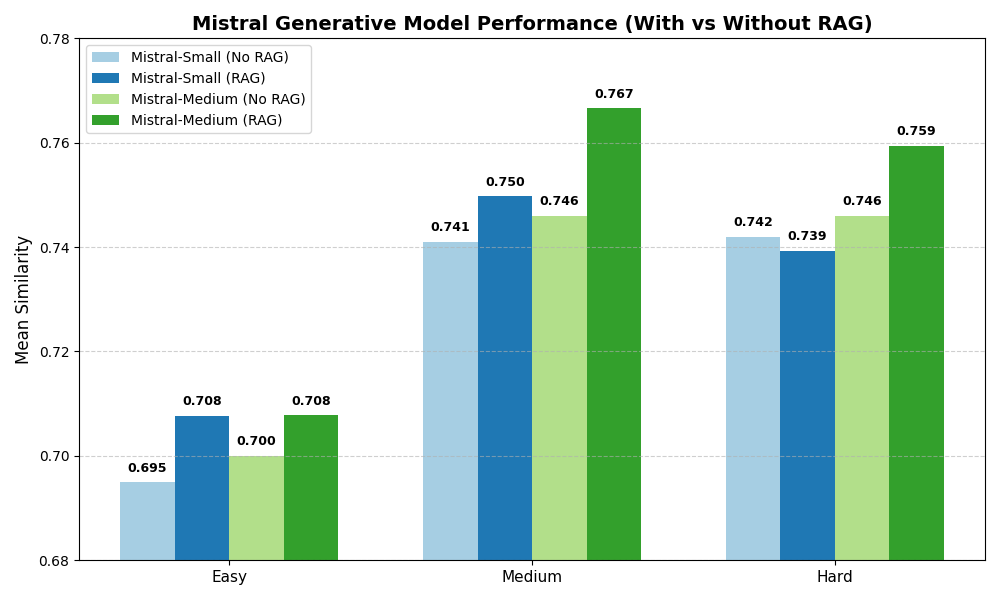
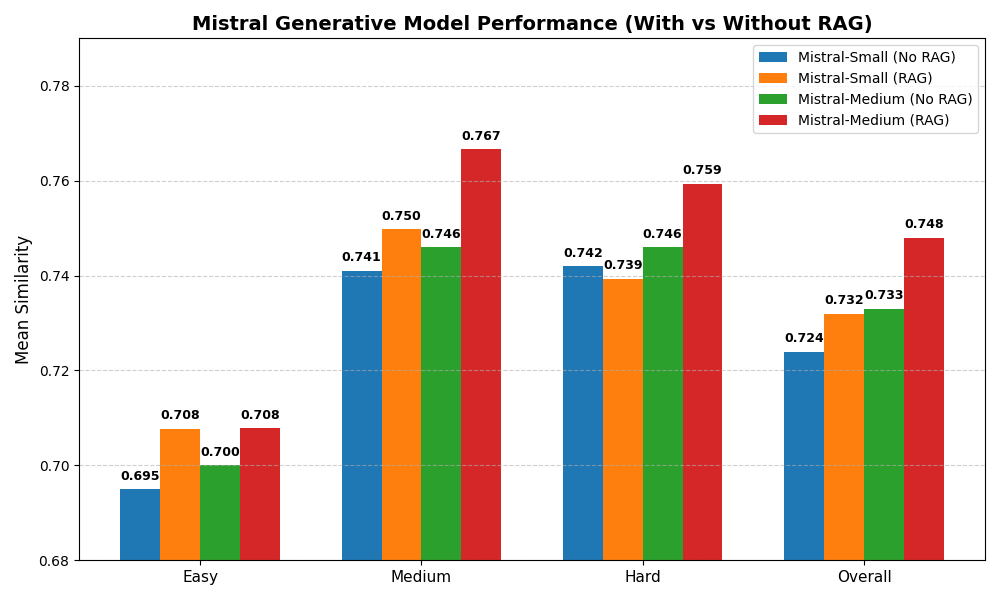
progress

diff --git a/analysis/task3.py b/analysis/task3.py
@@ -208,68 +208,75 @@ if __name__ == "__main__":
 
 '''
 # small
-With RAG:
-Overall mean similarity: 0.7059 <- do not plot this number
-  easy: 0.7077
-  medium: 0.7498
-  hard: 0.7393
-Saved detailed results to textwave/results/generative_mistral-small-latest_detailed.csv
-No RAG:
-  Easy: 0.695
-  Hard: 0.742
-  Medium: 0.741
+With RAG
+	•	Easy: 0.7077
+	•	Medium: 0.7498
+	•	Hard: 0.7393
+	•	Overall: 0.732
+
+Without RAG
+	•	Easy: 0.695
+	•	Medium: 0.741
+	•	Hard: 0.742
+	•	Overall: 0.724
 
 # medium
-With RAG:
-Overall mean similarity: 0.7164 <- do not plot this number
-  easy: 0.7078
-  medium: 0.7666
-  hard: 0.7594
-Saved detailed results to textwave/results/generative_mistral-medium-latest_detailed.csv
-No RAG:
-  Easy: 0.700
-  Hard: 0.746
-  Medium: 0.746
+With RAG
+	•	Easy: 0.7078
+	•	Medium: 0.7666
+	•	Hard: 0.7594
+	•	Overall: 0.748
+Without RAG
+	•	Easy: 0.700
+	•	Medium: 0.746
+	•	Hard: 0.746
+	•	Overall: 0.733
 '''
 
 # %%
 import matplotlib.pyplot as plt
 import numpy as np
 
-# Data
-categories = ["Easy", "Medium", "Hard"]
+# Updated categories (added Overall)
+categories = ["Easy", "Medium", "Hard", "Overall"]
 
 # With RAG
-mistral_small_rag = [0.7077, 0.7498, 0.7393]
-mistral_medium_rag = [0.7078, 0.7666, 0.7594]
+mistral_small_rag = [0.7077, 0.7498, 0.7393, 0.732]
+mistral_medium_rag = [0.7078, 0.7666, 0.7594, 0.748]
 
 # No RAG
-mistral_small_no_rag = [0.695, 0.741, 0.742]
-mistral_medium_no_rag = [0.700, 0.746, 0.746]
+mistral_small_no_rag = [0.695, 0.741, 0.742, 0.724]
+mistral_medium_no_rag = [0.700, 0.746, 0.746, 0.733]
 
 x = np.arange(len(categories))
-width = 0.18  # thinner bars since we have 4 groups
+width = 0.18  # thinner bars since we now have 4 groups
 
 plt.figure(figsize=(10, 6))
 
 # Create grouped bars
-bars1 = plt.bar(x - 1.5*width, mistral_small_no_rag, width, label="Mistral-Small (No RAG)", color="#A6CEE3")
-bars2 = plt.bar(x - 0.5*width, mistral_small_rag, width, label="Mistral-Small (RAG)", color="#1F78B4")
-bars3 = plt.bar(x + 0.5*width, mistral_medium_no_rag, width, label="Mistral-Medium (No RAG)", color="#B2DF8A")
-bars4 = plt.bar(x + 1.5*width, mistral_medium_rag, width, label="Mistral-Medium (RAG)", color="#33A02C")
+bars1 = plt.bar(x - 1.5*width, mistral_small_no_rag, width, label="Mistral-Small (No RAG)")
+bars2 = plt.bar(x - 0.5*width, mistral_small_rag, width, label="Mistral-Small (RAG)")
+bars3 = plt.bar(x + 0.5*width, mistral_medium_no_rag, width, label="Mistral-Medium (No RAG)")
+bars4 = plt.bar(x + 1.5*width, mistral_medium_rag, width, label="Mistral-Medium (RAG)")
 
 # Annotate bars with values
 for bars in [bars1, bars2, bars3, bars4]:
     for bar in bars:
-        plt.text(bar.get_x() + bar.get_width()/2, bar.get_height() + 0.002,
-                 f"{bar.get_height():.3f}", ha='center', fontsize=9, fontweight='bold')
+        plt.text(
+            bar.get_x() + bar.get_width()/2,
+            bar.get_height() + 0.002,
+            f"{bar.get_height():.3f}",
+            ha='center',
+            fontsize=9,
+            fontweight='bold'
+        )
 
 # Formatting
 plt.title("Mistral Generative Model Performance (With vs Without RAG)",
           fontsize=14, fontweight='bold')
 plt.ylabel("Mean Similarity", fontsize=12)
 plt.xticks(x, categories, fontsize=11)
-plt.ylim(0.68, 0.78)
+plt.ylim(0.68, 0.79)
 plt.legend()
 plt.grid(axis='y', linestyle="--", alpha=0.6)
 

diff --git a/CASE_ANALYSIS.md b/CASE_ANALYSIS.md
@@ -22,9 +22,7 @@ Figure 2 shows that for all question types, the Medium model consistently beats 
 
 Figure 3 shows mixed results for the Small model, while the Medium model with RAG consistently outperforms its non-RAG counterpart. For easy and medium questions, the Small model benefits from RAG, achieving higher accuracy than without it. However, for harder questions and overall performance, the Small model with RAG performs worse. This may be because, when presented with additional retrieved information, the smaller model becomes overwhelmed or confused—its limited parameter capacity makes it less effective at integrating and reasoning over complex contextual data. The medium model, on the other hand, has more parameters so it does not have this struggle and therefore can perform with higher accuracy. As mentioned previously, the tradeoff to using the medium model is speed and resource usage. The verdict is to use the small model with RAG for easy questions since it performs identical to the medium model with RAG while taking less compute power. On the other hand, the boost in accuracy that the medium model with RAG offers makes the more expensive compute justifiable, meaning that in these situations, the medium model with RAG is the winner.
 
-TODO - compare with task 2 ??
-
-
+RAG usually improves performance, justifying the additional overhead it introduces. But, for small models on hard questions, it can do the opposite. Hard questions introduce ambiguous retrieval, long context passages, and reasoning steps that small models struggle to integrate. Instead of filtering or rejecting noisy context, a small model tends to overfit to it, drowning out its internal priors and reducing answer quality. Medium and large models can compensate, but small models cannot—so RAG backfires specifically on hard queries.
 
 # Reranker Performance Comparison (Architecture Selection)
 
